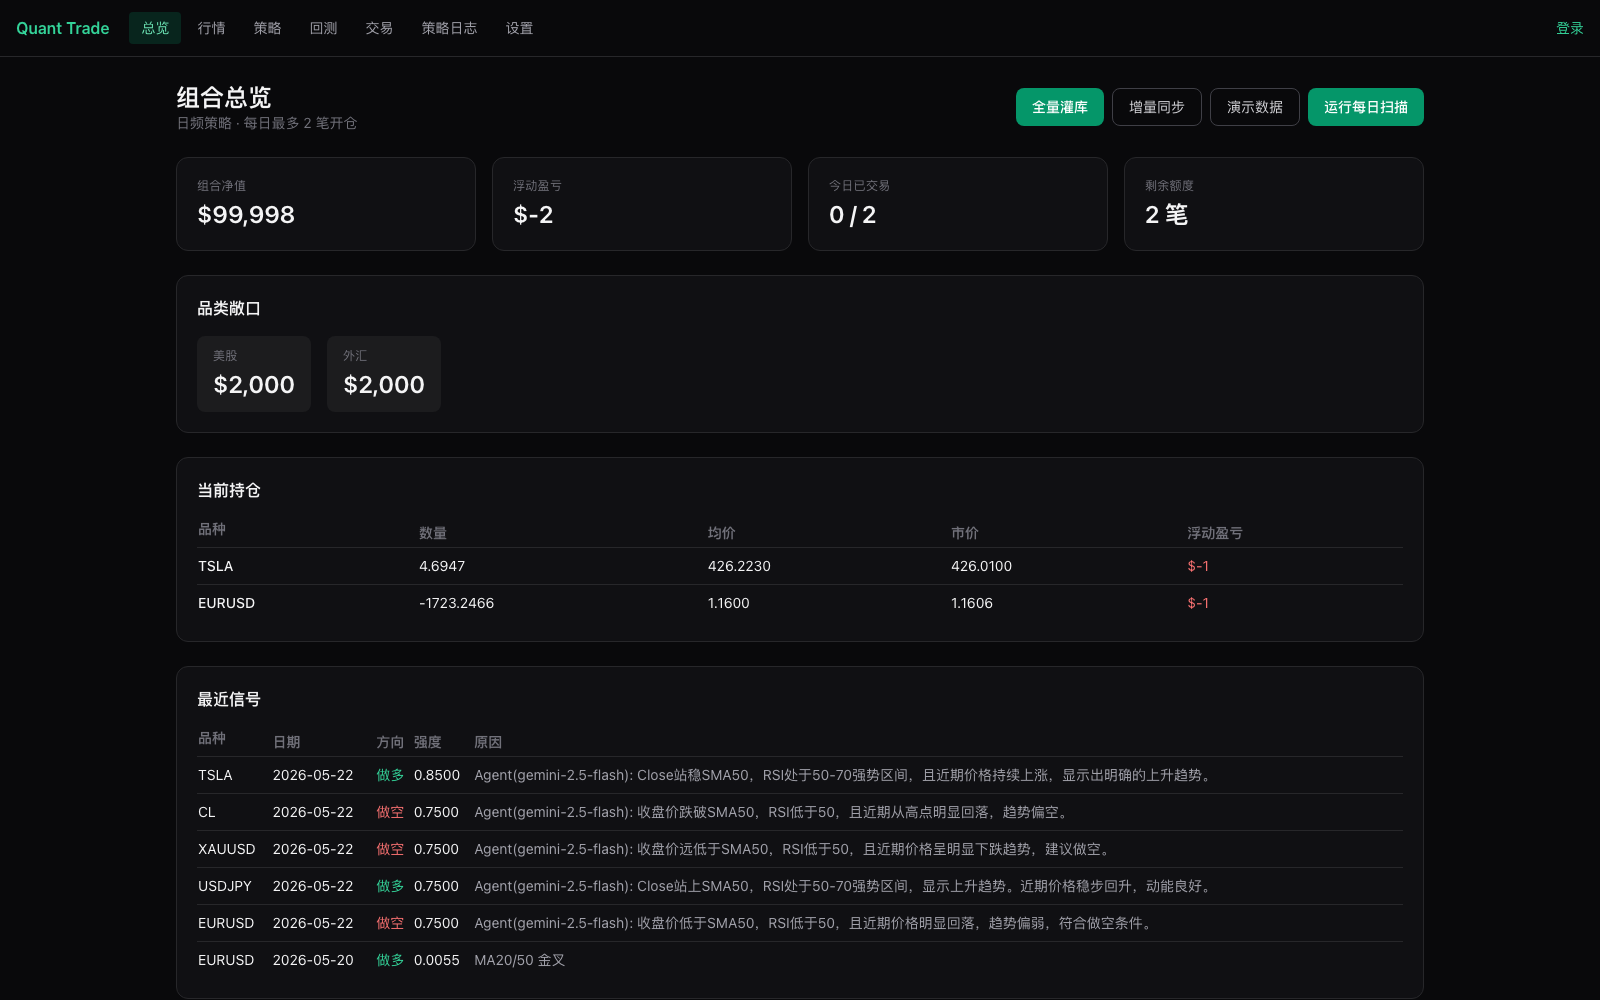
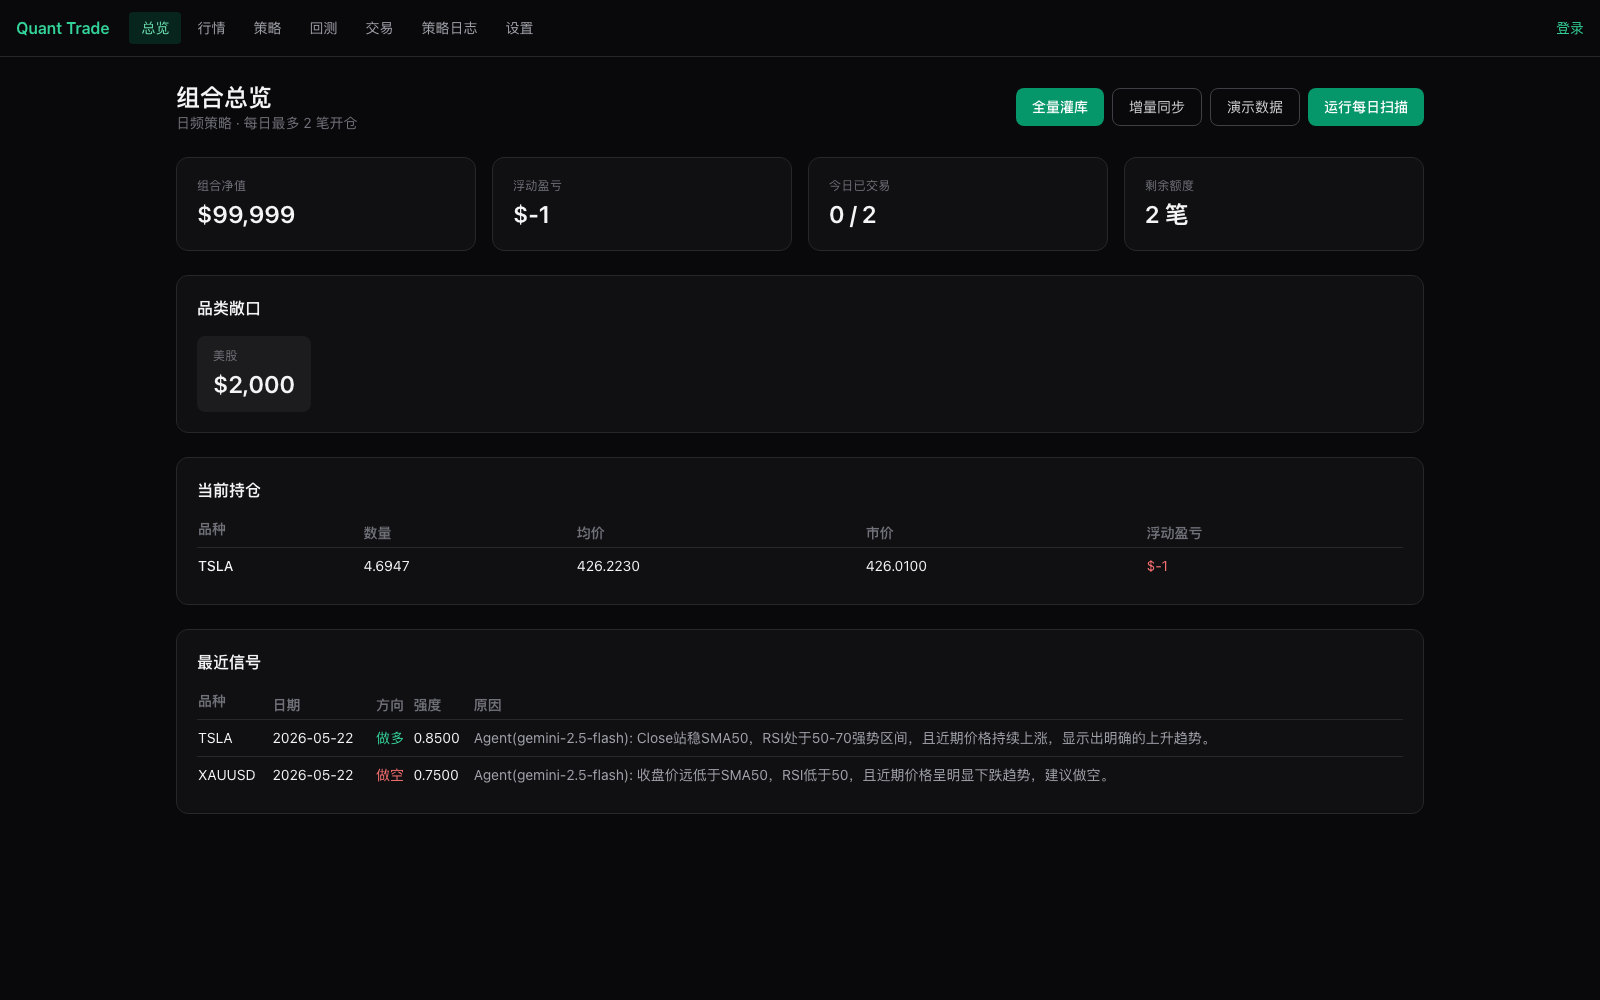
feat(agent): 自动加载缓存决策 + BTC 默认选中 + 截图全部刷新
- 新增 GET /api/agent/decision 只读端点（不触发 LLM）；前端 AgentWatchPanel
  在切换品种/策略时自动调用，已有缓存就直接显示
- InstrumentsClient 按 priority 排序，BTC 默认首选；支持 ?symbol=X URL 参数
- 截图全部刷新：instruments.png 现在展示 BTC + Agent 看盘价位线效果
- README 顶部嵌入这张截图 + Live Demo 链接，作为项目第一印象

diff --git a/frontend/src/components/AgentWatchPanel.tsx b/frontend/src/components/AgentWatchPanel.tsx
@@ -43,12 +43,32 @@ export function AgentWatchPanel({ instrumentId, symbol, onLevelsChange }: Props)
     // eslint-disable-next-line react-hooks/exhaustive-deps
   }, []);
 
-  // 切到新品种时清掉旧结果
+  // 切到新品种 / 新策略时：清旧结果，并尝试读已缓存的决策（不触发 LLM）
   useEffect(() => {
     setResult(null);
     onLevelsChange?.([]);
     setError(null);
-  }, [instrumentId]); // eslint-disable-line react-hooks/exhaustive-deps
+    if (!selectedId) return;
+    let cancelled = false;
+    api
+      .agentCachedDecision(selectedId as number, instrumentId)
+      .then((cached) => {
+        if (cancelled || !cached) return;
+        setResult(cached);
+        const levels: PriceLevel[] = [];
+        if (cached.entry_price != null)
+          levels.push({ label: `入场 ${cached.entry_price.toFixed(2)}`, price: cached.entry_price, color: "#22c55e" });
+        if (cached.stop_loss != null)
+          levels.push({ label: `止损 ${cached.stop_loss.toFixed(2)}`, price: cached.stop_loss, color: "#ef4444" });
+        if (cached.take_profit != null)
+          levels.push({ label: `止盈 ${cached.take_profit.toFixed(2)}`, price: cached.take_profit, color: "#facc15" });
+        onLevelsChange?.(levels);
+      })
+      .catch(() => {});
+    return () => {
+      cancelled = true;
+    };
+  }, [instrumentId, selectedId]); // eslint-disable-line react-hooks/exhaustive-deps
 
   const analyze = useCallback(
     async (force: boolean) => {

diff --git a/frontend/src/app/instruments/InstrumentsClient.tsx b/frontend/src/app/instruments/InstrumentsClient.tsx
@@ -1,6 +1,7 @@
 "use client";
 
 import { useEffect, useState } from "react";
+import { useSearchParams } from "next/navigation";
 import { CandlestickChart, type PriceLevel } from "@/components/CandlestickChart";
 import { AgentWatchPanel } from "@/components/AgentWatchPanel";
 import type { Bar, Instrument } from "@/lib/api";
@@ -13,9 +14,25 @@ const TABS = [
   { key: "equity", label: "美股" },
 ];
 
+// 默认排序：BTC 优先，其次 XAUUSD，其次美股按字母
+const PRIORITY_SYMBOLS = ["BTC", "XAUUSD"];
+function priorityOf(sym: string): number {
+  const idx = PRIORITY_SYMBOLS.indexOf(sym);
+  return idx === -1 ? 999 : idx;
+}
+
 export function InstrumentsClient({ instruments }: { instruments: Instrument[] }) {
+  const searchParams = useSearchParams();
+  const symbolParam = searchParams.get("symbol");
+  const sorted = [...instruments].sort((a, b) => {
+    const pa = priorityOf(a.symbol);
+    const pb = priorityOf(b.symbol);
+    return pa !== pb ? pa - pb : a.symbol.localeCompare(b.symbol);
+  });
+  const initialSelected =
+    sorted.find((i) => i.symbol === symbolParam) || sorted[0] || null;
   const [tab, setTab] = useState("all");
-  const [selected, setSelected] = useState<Instrument | null>(instruments[0] ?? null);
+  const [selected, setSelected] = useState<Instrument | null>(initialSelected);
   const [bars, setBars] = useState<Bar[]>([]);
   const [loading, setLoading] = useState(false);
   const [loadError, setLoadError] = useState<string | null>(null);
@@ -24,7 +41,7 @@ export function InstrumentsClient({ instruments }: { instruments: Instrument[] }
   const [agentLevels, setAgentLevels] = useState<PriceLevel[]>([]);
 
   const filtered =
-    tab === "all" ? instruments : instruments.filter((i) => i.asset_class === tab);
+    tab === "all" ? sorted : sorted.filter((i) => i.asset_class === tab);
 
   useEffect(() => {
     if (filtered.length === 0) {

diff --git a/frontend/src/lib/api.ts b/frontend/src/lib/api.ts
@@ -127,6 +127,22 @@ export const api = {
       `/api/agent/analyze?strategy_id=${strategyId}&instrument_id=${instrumentId}&force=${force}`,
       { method: "POST" }
     ),
+  /** 只读：无缓存时返回 null（204），不触发 LLM */
+  agentCachedDecision: async (
+    strategyId: number,
+    instrumentId: number
+  ): Promise<AgentDecisionResult | null> => {
+    const token = getStoredToken();
+    const headers: Record<string, string> = { "Content-Type": "application/json" };
+    if (token) headers.Authorization = `Bearer ${token}`;
+    const res = await fetch(
+      `${API_URL}/api/agent/decision?strategy_id=${strategyId}&instrument_id=${instrumentId}`,
+      { headers, cache: "no-store" }
+    );
+    if (res.status === 204) return null;
+    if (!res.ok) throw new Error(`API error ${res.status}`);
+    return (await res.json()) as AgentDecisionResult;
+  },
 };
 
 export interface AgentDecisionResult {

diff --git a/backend/app/api/routes.py b/backend/app/api/routes.py
@@ -360,6 +360,50 @@ async def sync_one(instrument_id: int, session: AsyncSession = Depends(get_db)):
     return {"symbol": inst.symbol, "inserted": count}
 
 
[email redacted]("/agent/decision")
+async def get_cached_agent_decision(
+    strategy_id: int,
+    instrument_id: int,
+    session: AsyncSession = Depends(get_db),
+):
+    """只读：返回该品种最新行情日期的已缓存 Agent 决策；无缓存时 204。
+
+    给前端"打开 K 线就自动显示已有决策"用——不会触发 LLM 调用，零成本。
+    """
+    from sqlalchemy import select, func
+    from fastapi.responses import Response
+    from app.models.entities import Bar, AgentDecision
+
+    latest = await session.scalar(
+        select(func.max(Bar.trade_date)).where(Bar.instrument_id == instrument_id)
+    )
+    if not latest:
+        return Response(status_code=204)
+    result = await session.execute(
+        select(AgentDecision).where(
+            AgentDecision.strategy_id == strategy_id,
+            AgentDecision.instrument_id == instrument_id,
+            AgentDecision.decision_date == latest,
+        )
+    )
+    d = result.scalar_one_or_none()
+    if not d:
+        return Response(status_code=204)
+    return {
+        "instrument_id": d.instrument_id,
+        "symbol": "",  # 调用方自己有 symbol
+        "decision_date": d.decision_date.isoformat(),
+        "side": d.side,
+        "confidence": d.confidence,
+        "entry_price": d.entry_price,
+        "stop_loss": d.stop_loss,
+        "take_profit": d.take_profit,
+        "reason": d.reason,
+        "model": d.model,
+        "cached": True,
+    }
+
+
 @router.post("/agent/analyze")
 async def agent_analyze_instrument(
     strategy_id: int,

diff --git a/README.md b/README.md
@@ -5,16 +5,22 @@
 [![Python](https://img.shields.io/badge/Python-3.11+-blue.svg)](https://www.python.org/)
 [![Next.js](https://img.shields.io/badge/Next.js-14-black.svg)](https://nextjs.org/)
 
-面向国际市场（外汇、黄金、期货、美股）的日频量化交易系统：每日 1–2 笔开仓，含真实数据回测、模拟盘交易、LLM 对话生成策略、组合策略、Agent 信号策略。
+面向国际市场（**BTC / XAU / 美股 Magnificent 7**）的日频量化交易系统：真实行情、模拟盘、回测引擎、**LLM 对话生成策略**、**加权组合策略**、**Agent 看盘式实时分析**。
 
-![总览](docs/screenshots/dashboard.png)
+🌐 **Live Demo**：https://quant-trade-xylon01-s-projects.vercel.app
+
+![Agent 看盘 · BTC](docs/screenshots/instruments.png)
+
+> ☝️ Agent 看盘：选个 LLM Agent 策略 → 点"分析" → Gemini 实时看 K 线 + 指标 → K 线图上即时画出 入场（绿）/ 止损（红）/ 止盈（黄）三条价位线 + 中文交易理由
 
 ## ✨ 核心特性
 
 ### 📊 真实行情，零额外配置
-- **15 个品种**：EURUSD / GBPUSD / USDJPY / XAUUSD / ES / CL / AAPL / MSFT / GOOGL / AMZN / NVDA / META / TSLA / SPY / QQQ
-- **多源 fallback**：Stooq（主）→ Alpha Vantage → Frankfurter ECB（外汇兜底）→ Yahoo Finance
-- 一个免费的 Stooq Key 即可拉满 ~3 年日 K（约 11,000 根 bar）
+- **9 个品种**：BTC + XAUUSD + Magnificent 7（AAPL / MSFT / GOOGL / AMZN / NVDA / META / TSLA）
+- **多源调度**：
+  - BTC → **Coinbase Exchange**（公开、免 key、全球可用；Binance 美国 451 时备用）
+  - XAU + 美股 → **Stooq**（一个免费 key 拉满 ~3 年日 K）
+  - Alpha Vantage / Yahoo Finance 作 fallback
 
 ### 🧠 17+ 内置策略 + 三种扩展模式
 **经典技术策略**
@@ -29,10 +35,12 @@
 - 加权聚合：每个子策略一个权重，输出加权净分大于 0 做多、小于 0 做空
 - 例：MA 50% + RSI 30% + Donchian 20%
 
-**Agent LLM 策略** — 每日扫描时调 Gemini 分析 K 线 + 指标，按 (策略, 标的, 日期) 缓存决策：
-- 你写一句系统提示词（"你是趋势型交易员…"）
-- Gemini 看 60 根 K 线 + RSI/SMA/EMA/ATR + 通道指标 → 输出 `{side, confidence, reason}`
-- 同一天重复扫描走 DB 缓存，不重复消耗 LLM 配额
+**Agent 看盘式策略** — Gemini 实时分析单个标的，输出**可执行的交易计划**：
+- 系统提示词控制 Agent 风格（"你是趋势型交易员，关注 close 是否站上 SMA50…"）
+- Gemini 看最近 60 根 K 线 + RSI/SMA/EMA/ATR + 通道指标 → 输出 `{side, confidence, entry_price, stop_loss, take_profit, reason}`
+- 价位线直接画在 K 线图上：🟢 入场 / 🔴 止损 / 🟡 止盈
+- 按 (策略, 标的, 行情日期) 缓存，重复打开同一品种不烧 token；"重算"按钮强制刷新
+- 同样可用于每日批量扫描，按 max_trades_per_day 选 top-K 出单
 
 ### 📈 完整的回测引擎
 - Equity / Drawdown / 月收益热力图 / 标的拆解